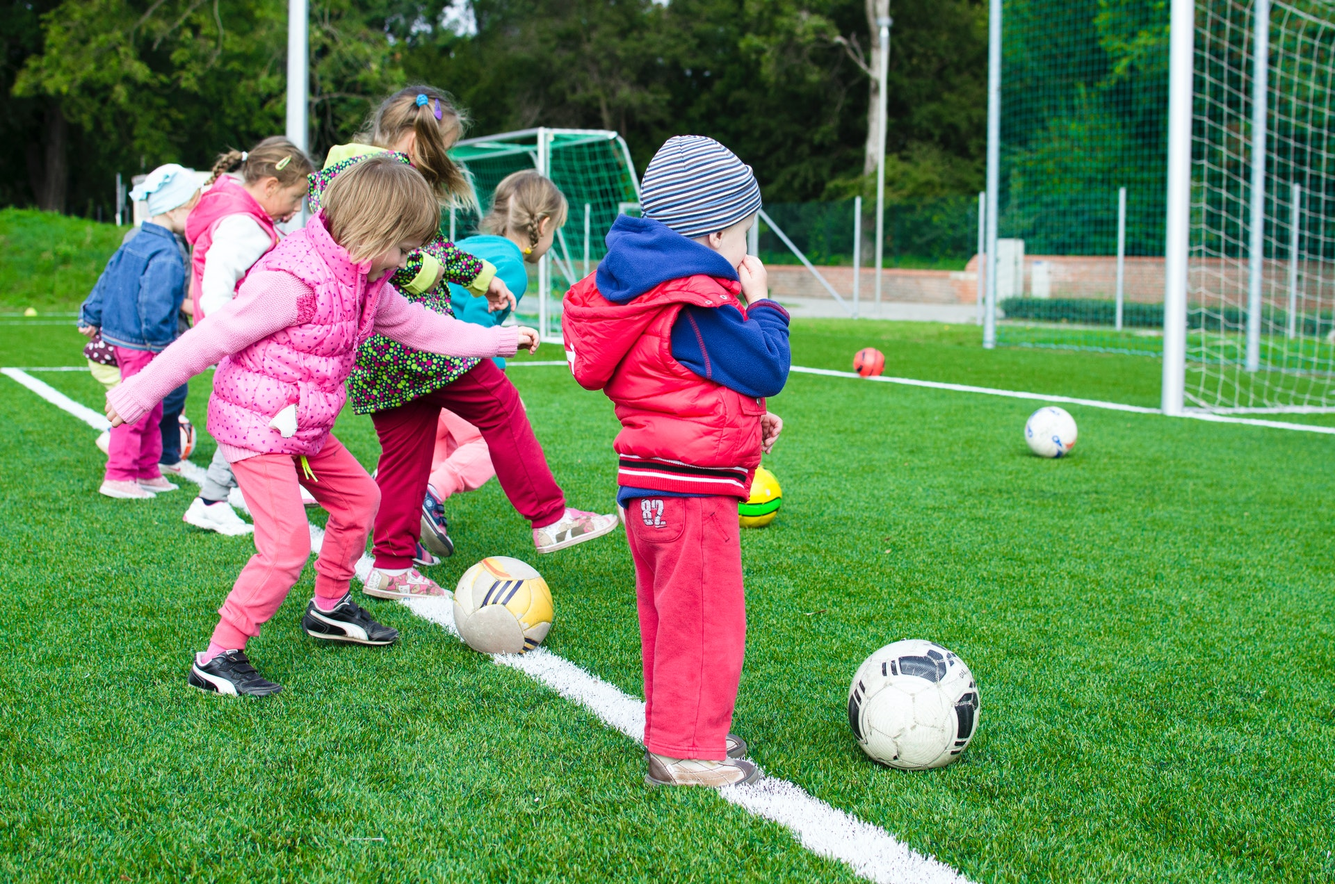
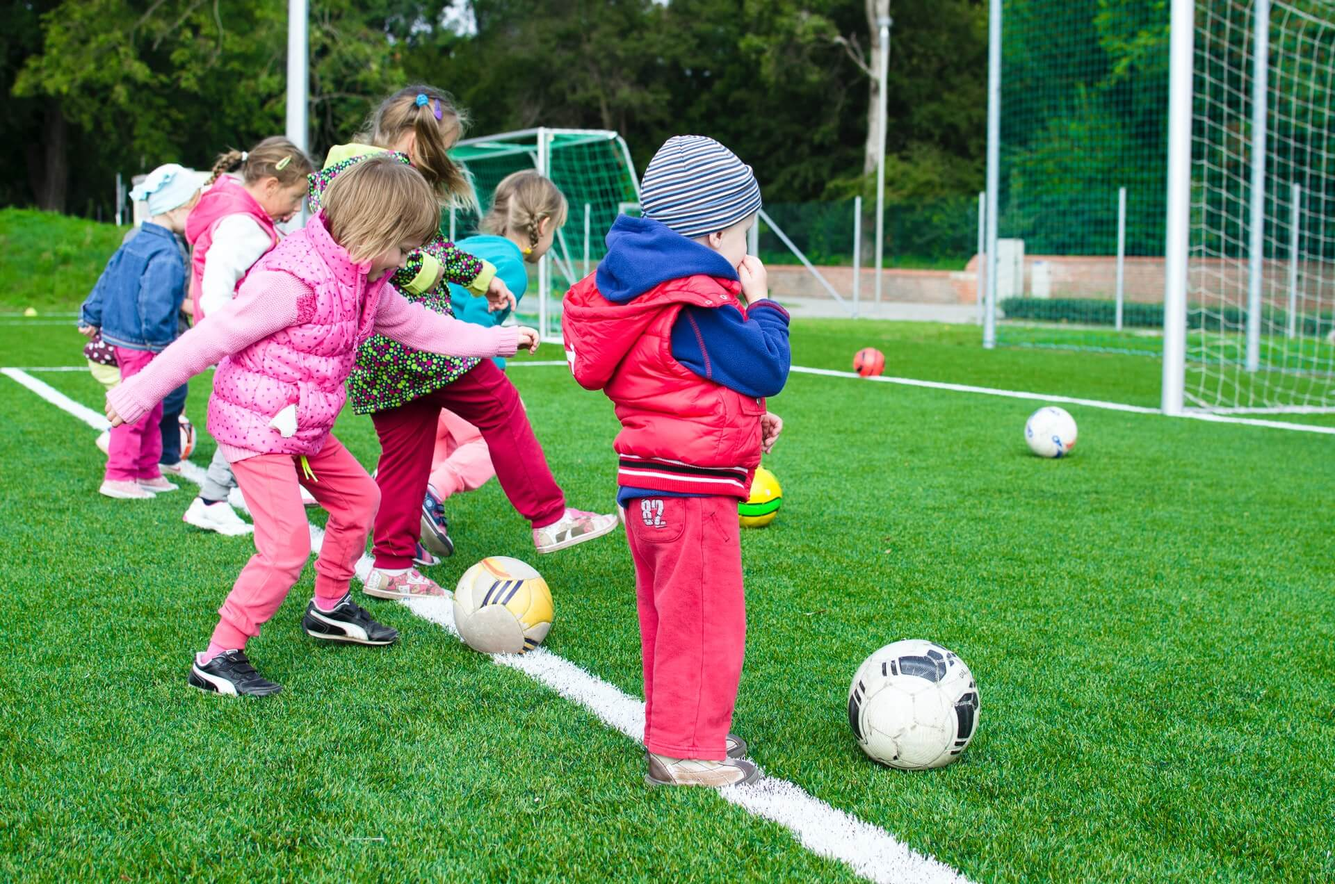
use tiny.png to decrease size of images on main page and sign up page to improve performance of page

diff --git a/signup.html b/signup.html
@@ -22,6 +22,7 @@
                 <li>
                     <a href="index.html#about-us" aria-label="Go to the about us section">About us</a>
                 </li>
+                <li>
                     <a href="gallery.html">Gallery</a>
                 </li>
                 <li>
@@ -41,11 +42,11 @@
                     <label for="lname">Last Name:</label>
                     <input id="lname" class="text-input" type="text"  name="last_name" placeholder="Parent/guardian" required />
                     <br>
-                    <label for="fname">First Name:</label>
-                    <input id="fname" class="text-input" type="text" name="first_name" placeholder="Child's" required />
+                    <label for="cfname">First Name:</label>
+                    <input id="cfname" class="text-input" type="text" name="first_name" placeholder="Child's" required />
                     <br>
-                    <label for="lname">Last Name:</label>
-                    <input id="lname" class="text-input" type="text" name="last_name" placeholder="Child's" required />
+                    <label for="clname">Last Name:</label>
+                    <input id="clname" class="text-input" type="text" name="last_name" placeholder="Child's" required />
                     <br>
                     <label for="email"><b>Email Add:</b></label>
                     <input type="text" placeholder="Enter Email" name="email" required>

diff --git a/assets/css/style.css b/assets/css/style.css
@@ -193,7 +193,7 @@ i:hover{
     justify-content: center;
     align-items: center;
     width: 100%;
-    background: url(../css/images/1189883.jpg);
+    background: url(../css/images/1189883\ \(1\).jpg);
     height: 80vh;
 }
 
@@ -209,8 +209,8 @@ i:hover{
 }
 
 .signup-button{
-  background-color: #04AA6D;
-  color: white;
+  background-color: #ccf381;
+  color: black;
   padding: 14px 20px;
   margin: 8px 0;
   border: none;
@@ -220,7 +220,7 @@ i:hover{
 }
 
 button:hover {
-  opacity:2;
+  opacity: .3;
 }
 
 /*--gallery--*/
